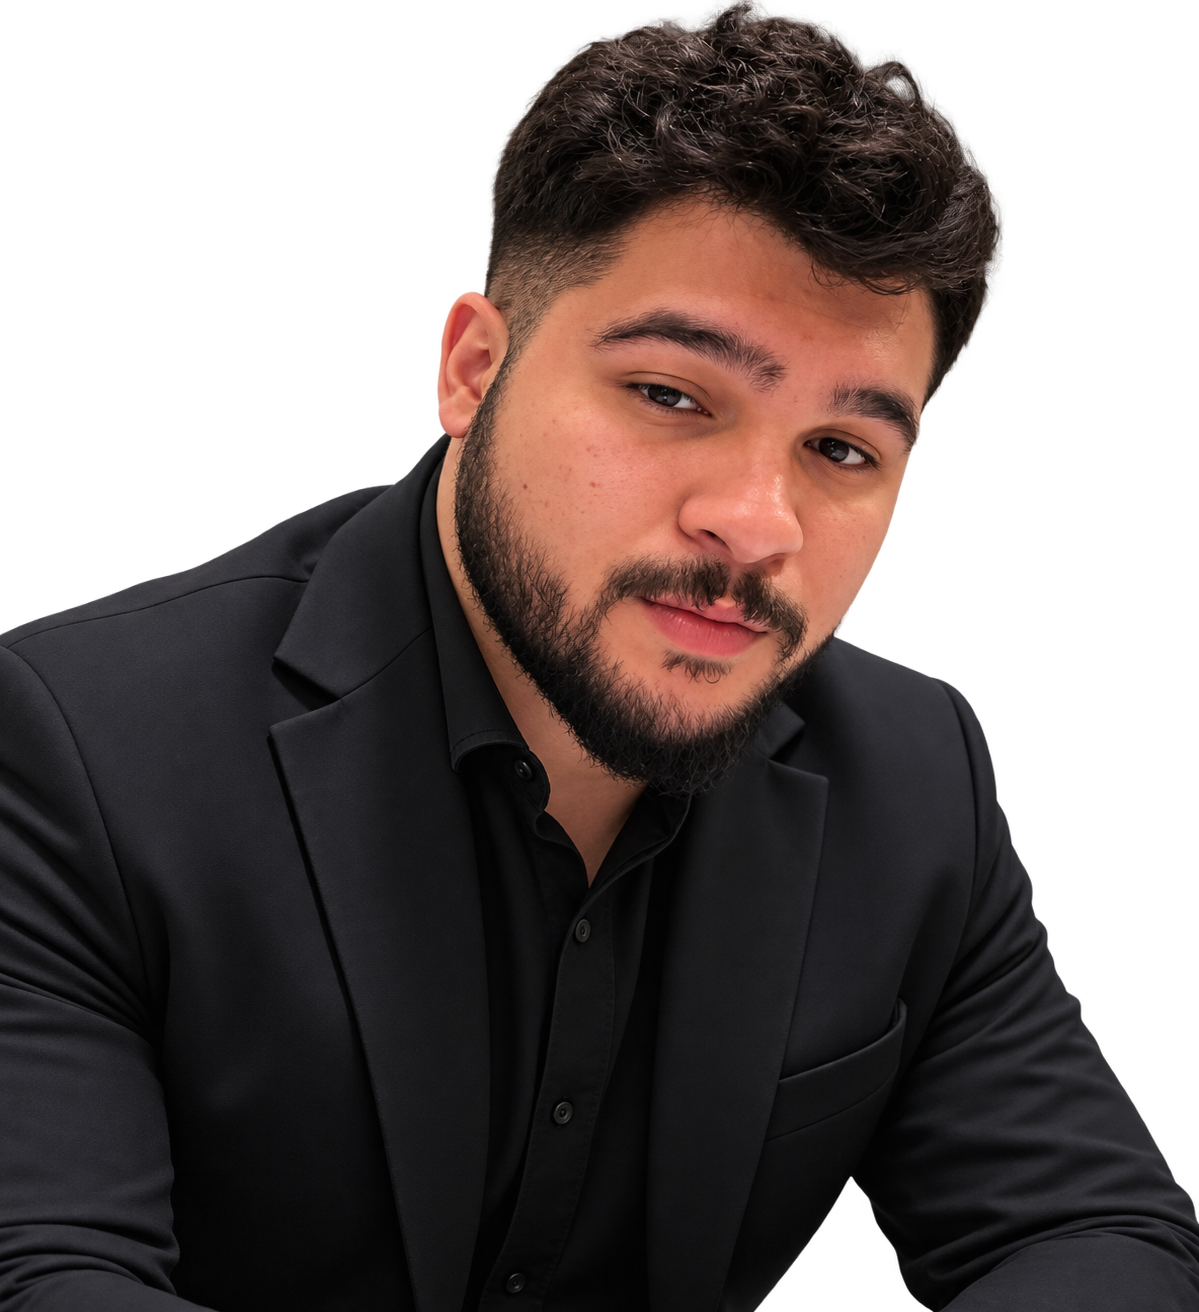
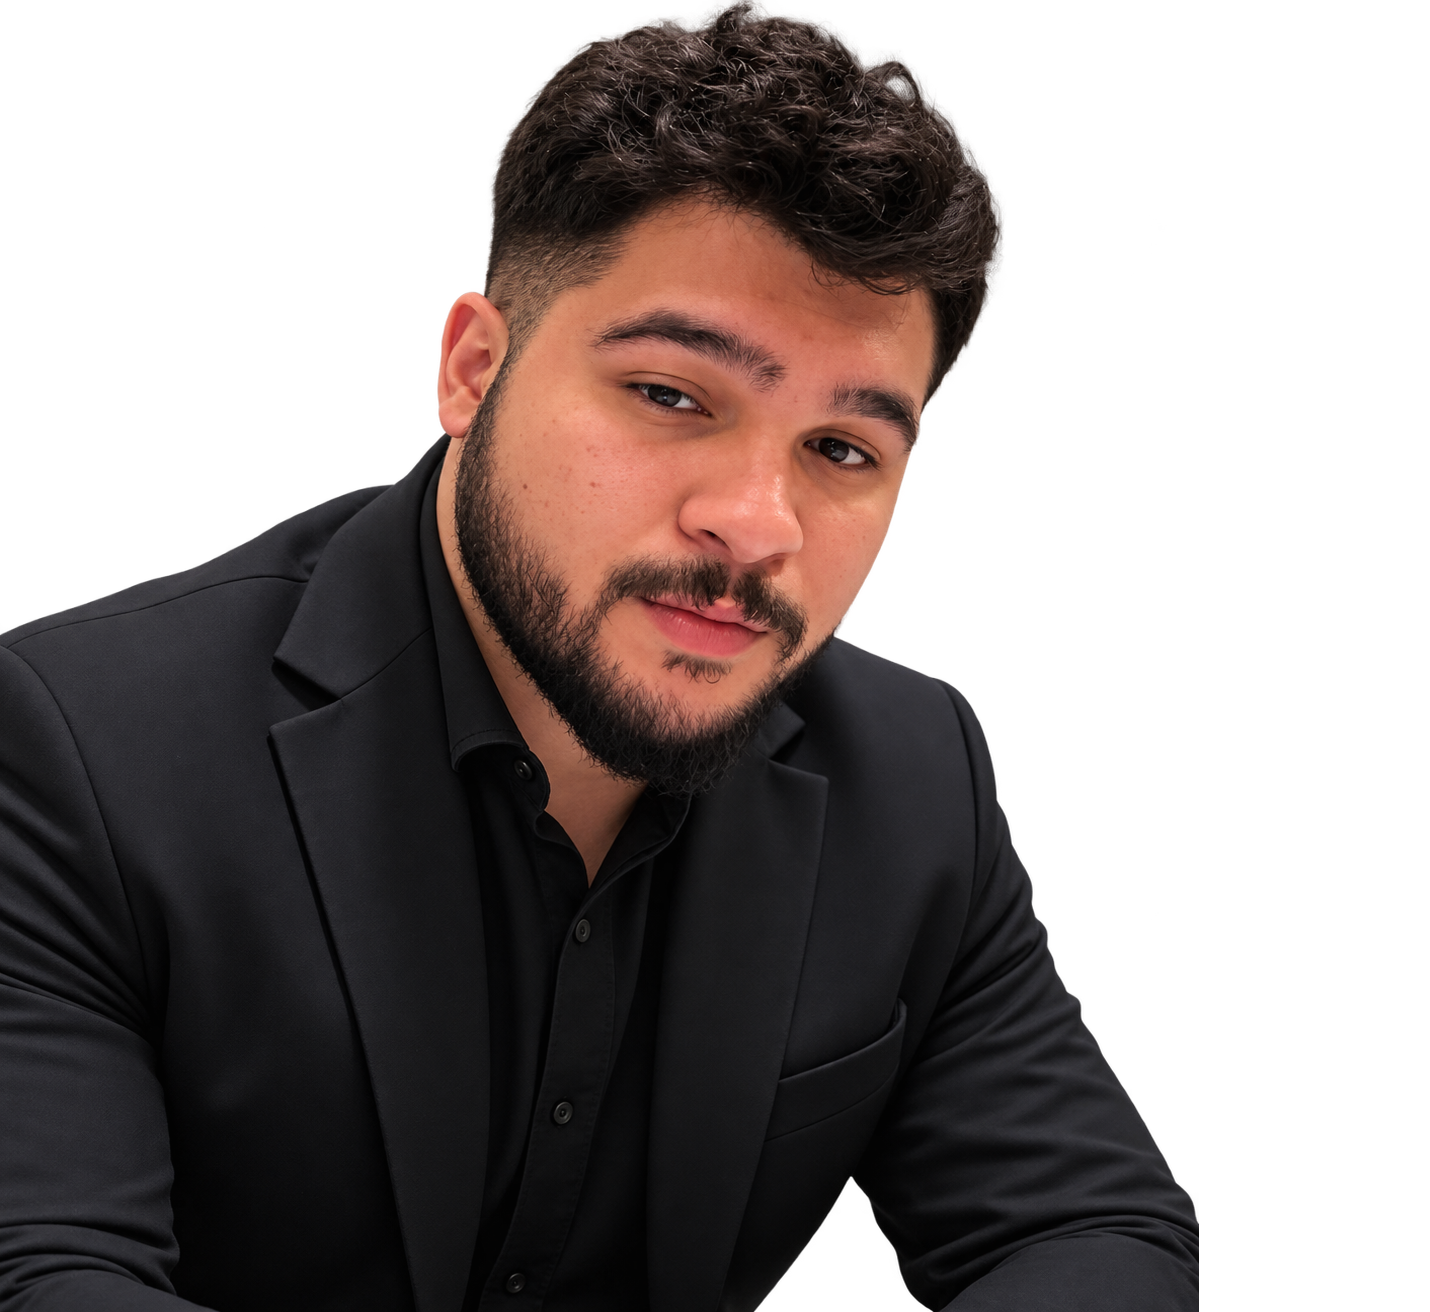
fix: center hero portrait photo with respect to ATAKAN heading text

diff --git a/app/globals.css b/app/globals.css
@@ -256,12 +256,12 @@ html {
 
 #hero-img {
   position: absolute;
-  top: 55%;
+  top: 50%;
   left: 50%;
   transform: translate(-50%, -50%);
   width: 90vw;
-  max-width: 65vh; /* Prevents it from getting too wide on desktop */
-  aspect-ratio: 1199 / 1312;
+  max-width: 68vh; /* Prevents it from getting too wide on desktop */
+  aspect-ratio: 1430 / 1312;
   height: auto;
   z-index: 10;
 }
@@ -270,10 +270,8 @@ html {
   width: 100%;
   height: 100%;
   object-fit: contain;
-  -webkit-mask-image: linear-gradient(to right, transparent 0%, black 15%), linear-gradient(to top, transparent 0%, black 15%);
-  -webkit-mask-composite: source-in;
-  mask-image: linear-gradient(to right, transparent 0%, black 15%), linear-gradient(to top, transparent 0%, black 15%);
-  mask-composite: intersect;
+  -webkit-mask-image: linear-gradient(to top, transparent 0%, black 15%);
+  mask-image: linear-gradient(to top, transparent 0%, black 15%);
 }
 
 #hero-stroke-1 {
@@ -348,7 +346,7 @@ html {
 #hero-heading {
   color: var(--color-text);
   position: absolute;
-  top: 45%;
+  top: 50%;
   left: 50%;
   transform: translate(-50%, -50%);
   font-size: 22vw;
@@ -1153,12 +1151,12 @@ body {
 
   #hero-img {
     position: absolute;
-    top: 55%;
+    top: 50%;
     left: 50%;
     transform: translate(-50%, -50%);
     width: 85vw;
     max-width: 500px;
-    aspect-ratio: 1199 / 1312;
+    aspect-ratio: 1430 / 1312;
     height: auto;
     z-index: 10;
   }
@@ -1167,10 +1165,8 @@ body {
     width: 100%;
     height: 100%;
     object-fit: contain;
-    -webkit-mask-image: linear-gradient(to right, transparent 0%, black 15%), linear-gradient(to top, transparent 0%, black 15%);
-    -webkit-mask-composite: source-in;
-    mask-image: linear-gradient(to right, transparent 0%, black 15%), linear-gradient(to top, transparent 0%, black 15%);
-    mask-composite: intersect;
+    -webkit-mask-image: linear-gradient(to top, transparent 0%, black 15%);
+    mask-image: linear-gradient(to top, transparent 0%, black 15%);
   }
 
   #hero-heading {
@@ -1350,10 +1346,10 @@ body {
   }
 
   #hero-img {
-    top: 56%;
+    top: 50%;
     width: 90vw;
     max-width: 450px;
-    aspect-ratio: 1199 / 1312;
+    aspect-ratio: 1430 / 1312;
     height: auto;
   }
 

diff --git a/components/HeroSection/HeroSection.jsx b/components/HeroSection/HeroSection.jsx
@@ -248,7 +248,7 @@ const HeroSection = () => {
         {/* Portrait image (foreground, moves more) */}
         <div className="hero-layer" data-depth="0.50" style={{ zIndex: 10 }}>
           <div id="hero-img" ref={imgRef}>
-            <Image src="/hero-image-nobg.png" alt="" width={1199} height={1312} priority sizes="(max-width: 768px) 80vw, 50vw" draggable="false" />
+            <Image src="/hero-image-nobg.png" alt="Atakan Yağlı" width={1430} height={1312} priority sizes="(max-width: 768px) 90vw, 65vh" draggable="false" />
           </div>
         </div>
 
